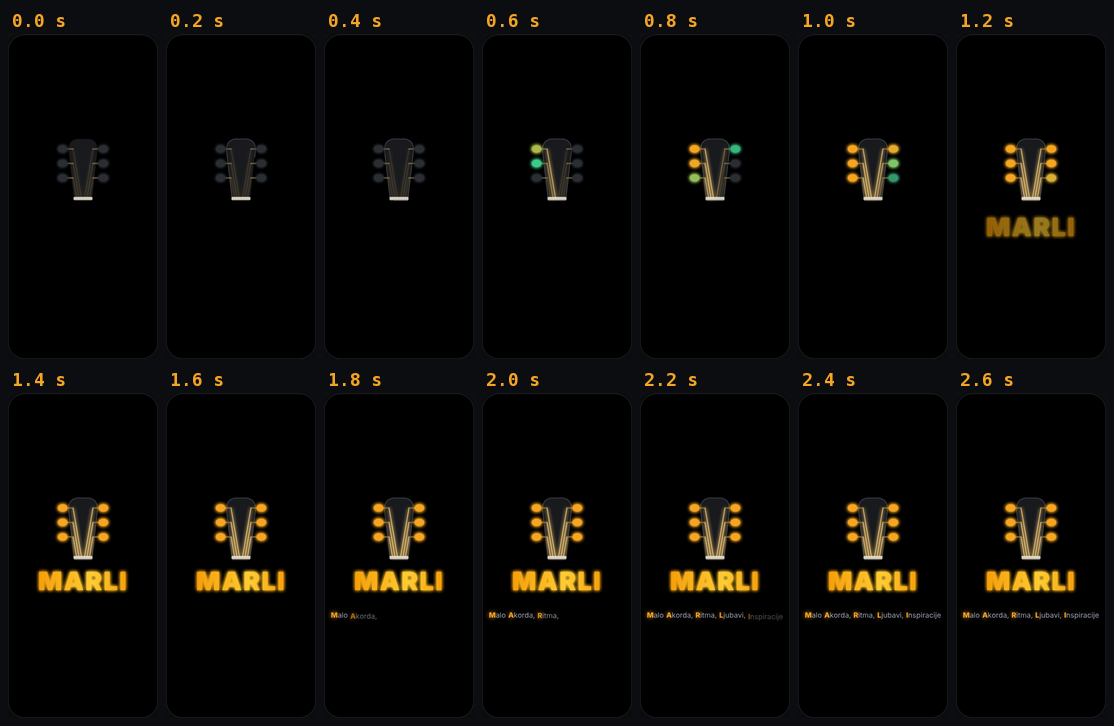
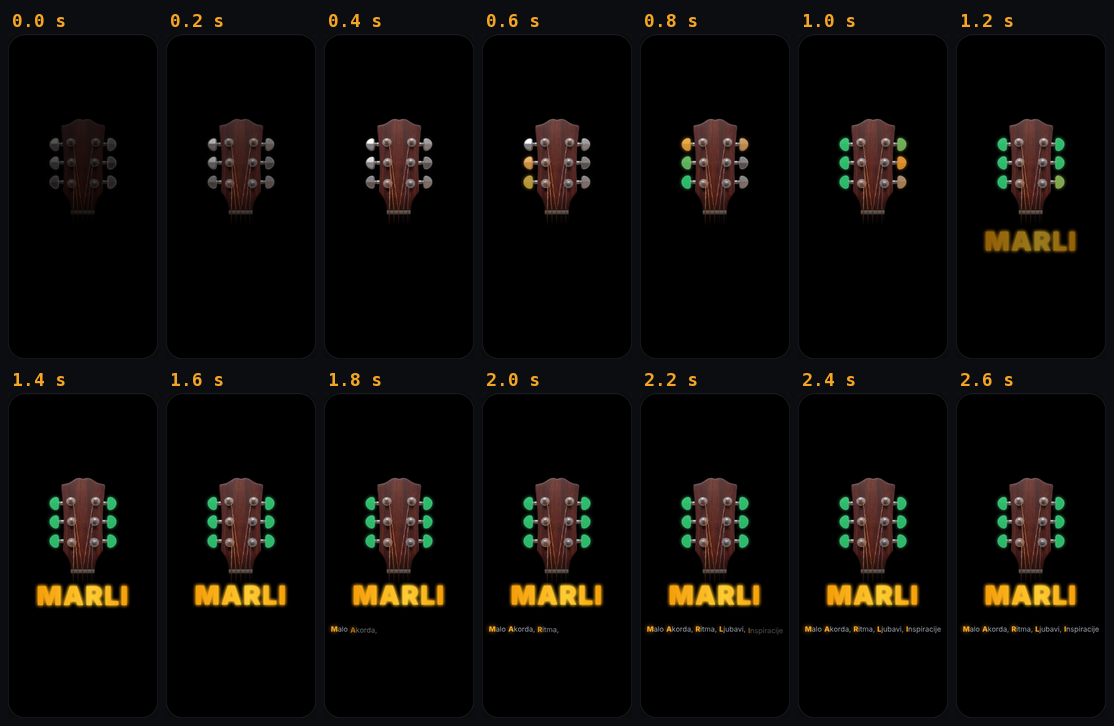
MARLI, faza 1: glava gitare iz tunera — ikonica B (silueta), B2 (fotografija), animacije 4 (fotografija) i 4b (silueta)
Claude-Session: https://claude.ai/code/session_01NDUSKUN97fWP9dPBbYtahr

diff --git a/docs/marli/index.html b/docs/marli/index.html
@@ -107,17 +107,21 @@
   @keyframes pop { 0% { opacity: 0; transform: translateY(26px) scale(.6); } 60% { opacity: 1; } to { opacity: 1; transform: none; } }
   @keyframes fadeIn { to { opacity: 1; } }
 
-  /* animacija 4: čivije (ikonica B) */
-  .a4 .hs { stroke-dasharray: 1; stroke-dashoffset: 1; }
-  .play.a4 .hs { animation: draw .45s ease-out forwards; }
-  .a4 .peg { fill: #2a2d33; }
-  .play.a4 .peg { animation: pegOn .32s ease-out forwards; }
-  @keyframes pegOn { 0% { fill: #2a2d33; } 35% { fill: #3dd68c; } to { fill: #f5a524; } }
-  .a4 .str { opacity: .15; }
-  .play.a4 .str { animation: strOn .3s ease-out forwards; }
-  @keyframes strOn { to { opacity: 1; } }
-  .a4 .nm { opacity: 0; transform: translateY(18px); }
-  .play.a4 .nm { animation: rise .55s cubic-bezier(.2, .9, .25, 1.1) 1.15s forwards; }
+  /* animacija 4 / 4b: glava gitare iz tunera — ključevi kao u tuneru (narandžasto dok se štimuje → zeleno) */
+  .a4 .hsimg, .a4b .hsimg { opacity: 0; }
+  .play.a4 .hsimg { animation: fadeIn .4s ease-out forwards; }
+  .a4b .hsil { stroke-dasharray: 1; stroke-dashoffset: 1; fill-opacity: 0; }
+  .play.a4b .hsil { animation: silDraw .5s ease-out forwards, silFill .35s ease-out .4s forwards; }
+  .a4b .hstr { opacity: 0; }
+  .play.a4b .hstr { animation: fadeIn .35s ease-out .4s forwards; }
+  @keyframes silDraw { to { stroke-dashoffset: 0; } }
+  @keyframes silFill { to { fill-opacity: 1; } }
+  .a4 .kn, .a4b .kn { fill: rgba(255, 255, 255, 0); stroke: rgba(255, 255, 255, .5); stroke-width: 3; stroke-linejoin: round; }
+  .a4b .kn { stroke: rgba(245, 165, 36, .5); }
+  .play.a4 .kn, .play.a4b .kn { animation: knTune .38s ease-out forwards; }
+  @keyframes knTune { 0% { fill: rgba(255,255,255,0); } 40% { fill: rgba(245, 150, 30, .6); stroke: #f5a524; stroke-width: 5; } 100% { fill: rgba(40, 190, 105, .82); stroke: #6ff0aa; stroke-width: 4; } }
+  .a4 .nm, .a4b .nm { opacity: 0; transform: translateY(18px); }
+  .play.a4 .nm, .play.a4b .nm { animation: rise .55s cubic-bezier(.2, .9, .25, 1.1) 1.15s forwards; }
 
   /* animacija 5: ritam */
   .a5 .bar { transform-box: fill-box; transform-origin: 50% 100%; transform: scaleY(.15); }
@@ -204,12 +208,21 @@
       <p class="muted small scrub-hint">Prevuci klizač: kadar po kadar.</p>
     </div>
     <div class="card anim-card">
-      <h3><span class="tag">4</span> Čivije (uz ikonicu B)</h3>
-      <p class="muted small">Glava gitare iz ikonice B: čivije se jedna po jedna „uštimuju“ (kratko zeleno, pa zlatno), žice zasijaju, a ispod izraste MARLI — kao sama ikonica. Zatim reč po reč.</p>
+      <h3><span class="tag">4</span> Čivije — fotografija iz tunera</h3>
+      <p class="muted small">Ista glava gitare kao u tuneru: ključevi se jedan po jedan „uštimuju“ tačno kao u tuneru (narandžasto, pa zeleno), a ispod izraste MARLI. Zatim reč po reč.</p>
       <div class="phone a4" id="ph4"></div>
       <div class="timeline"><b></b></div>
       <div class="row"><button class="btn primary" data-replay="4">↻ Pusti ponovo</button><button class="btn" data-slow="4">🐢 Usporeno 4×</button></div>
       <div class="scrub"><input type="range" min="0" max="2600" step="20" value="0" data-scrub="4" aria-label="Kadar po kadar"><output data-t="4">0,00 s</output></div>
+      <p class="muted small scrub-hint">Prevuci klizač: kadar po kadar.</p>
+    </div>
+    <div class="card anim-card">
+      <h3><span class="tag">4b</span> Čivije — silueta iz tunera</h3>
+      <p class="muted small">Obris iste glave gitare iz tunera se iscrta zlatnom linijom (kao ikonica B), ključevi se uštimuju jedan po jedan, a ispod izraste MARLI. Zatim reč po reč.</p>
+      <div class="phone a4b" id="ph4b"></div>
+      <div class="timeline"><b></b></div>
+      <div class="row"><button class="btn primary" data-replay="4b">↻ Pusti ponovo</button><button class="btn" data-slow="4b">🐢 Usporeno 4×</button></div>
+      <div class="scrub"><input type="range" min="0" max="2600" step="20" value="0" data-scrub="4b" aria-label="Kadar po kadar"><output data-t="4b">0,00 s</output></div>
       <p class="muted small scrub-hint">Prevuci klizač: kadar po kadar.</p>
     </div>
     <div class="card anim-card">
@@ -261,7 +274,7 @@
 // ------------------------------------------------------------------------------------------------
 const GOLD = '#f5a524', CORE = '#ffd27a', GREEN = '#3dd68c';
 let uid = 0;
-const glowDefs = (id, blur = 9) => `<filter id="${id}" filterUnits="userSpaceOnUse" x="-200" y="-200" width="1000" height="1000"><feGaussianBlur stdDeviation="${blur}" result="b"/><feMerge><feMergeNode in="b"/><feMergeNode in="b"/><feMergeNode in="SourceGraphic"/></feMerge></filter>`;
+const glowDefs = (id, blur = 9) => `<filter id="${id}" filterUnits="userSpaceOnUse" x="-3000" y="-3000" width="9000" height="9000"><feGaussianBlur stdDeviation="${blur}" result="b"/><feMerge><feMergeNode in="b"/><feMergeNode in="b"/><feMergeNode in="SourceGraphic"/></feMerge></filter>`;
 
 // „MARLI“ jednim potezom (monoline), slova visine 100, sa razmakom; ukupno 340 × 100
 const LETTERS = [
@@ -287,6 +300,12 @@ function wavePath(x0, x1, y, amp, waves = 2, phase = 0, step = 4) {
 // ------------------------------------------------------------------------------------------------
 // Ikonice (512 × 512, bez zaobljenja — zaobljenje/krug radi sistem)
 // ------------------------------------------------------------------------------------------------
+// Glava gitare iz tunera: fotografija assets/headstock.webp (926 × 1205), obris (silueta) i tačni obrisi šest ključeva (src/headstockKnobs.js)
+const HS = { W: 926, H: 1205, img: '../../assets/headstock.webp', sil: '402,18 386,24 374,30 364,36 354,42 346,48 336,54 324,60 316,66 302,72 286,78 256,84 228,90 224,96 224,102 222,108 222,114 222,120 222,126 224,132 224,138 224,144 224,150 226,156 226,162 226,168 228,174 228,180 228,186 230,192 230,198 232,204 232,210 232,216 232,222 234,228 148,234 136,240 126,246 120,252 114,258 110,264 106,270 104,276 102,282 100,288 100,294 100,300 100,306 102,312 102,318 106,324 108,330 112,336 116,342 122,348 128,354 136,360 150,366 246,372 246,378 246,384 246,390 248,396 246,402 248,408 248,414 248,420 248,426 248,432 146,438 134,444 124,450 118,456 112,462 108,468 106,474 102,480 100,486 100,492 100,498 100,504 100,510 100,516 102,522 104,528 108,534 110,540 116,546 122,552 128,558 138,564 152,570 250,576 250,582 250,588 250,594 250,600 250,606 250,612 250,618 250,624 250,630 250,636 250,642 142,648 136,654 124,660 116,666 114,672 110,678 106,684 104,690 102,696 100,702 96,708 98,714 98,720 100,726 102,732 102,738 106,744 108,750 112,756 116,762 122,768 132,774 142,780 244,786 244,792 244,798 244,804 244,810 244,816 246,822 248,828 250,834 256,840 260,846 264,852 270,858 274,864 278,870 282,876 286,882 290,888 292,894 296,900 298,906 302,912 304,918 308,924 310,930 312,936 314,942 314,948 316,954 318,960 320,966 322,972 322,978 324,984 326,990 326,996 326,1002 328,1008 328,1014 328,1020 328,1026 328,1032 328,1038 328,1044 328,1050 328,1056 328,1062 330,1068 332,1074 350,1080 348,1086 342,1092 334,1098 334,1104 334,1110 330,1116 330,1122 330,1128 330,1134 330,1140 330,1146 330,1152 330,1158 330,1164 330,1170 332,1176 332,1182 332,1188 328,1194 328,1200 592,1200 592,1194 592,1188 590,1182 590,1176 590,1170 590,1164 590,1158 590,1152 590,1146 590,1140 590,1134 590,1128 590,1122 590,1116 590,1110 590,1104 590,1098 590,1092 588,1086 588,1080 588,1074 588,1068 590,1062 590,1056 590,1050 590,1044 590,1038 590,1032 590,1026 592,1020 592,1014 594,1008 594,1002 596,996 596,990 598,984 598,978 600,972 602,966 602,960 604,954 606,948 608,942 610,936 612,930 616,924 618,918 620,912 624,906 626,900 630,894 634,888 638,882 642,876 646,870 650,864 654,858 658,852 664,846 670,840 672,834 676,828 678,822 680,816 680,810 680,804 680,798 680,792 680,786 784,780 794,774 802,768 808,762 812,756 816,750 820,744 822,738 824,732 826,726 826,720 826,714 826,708 826,702 824,696 822,690 820,684 816,678 812,672 806,666 798,660 790,654 774,648 676,642 676,636 676,630 676,624 676,618 676,612 676,606 676,600 676,594 676,588 676,582 676,576 772,570 788,564 798,558 804,552 810,546 814,540 818,534 820,528 822,522 824,516 826,510 826,504 826,498 826,492 824,486 822,480 820,474 818,468 814,462 808,456 802,450 792,444 780,438 678,432 678,426 678,420 680,414 680,408 680,402 680,396 680,390 680,384 682,378 682,372 776,366 788,360 800,354 806,348 810,342 814,336 816,330 820,324 822,318 824,312 824,306 826,300 826,294 824,288 824,282 822,276 820,270 816,264 812,258 806,252 800,246 790,240 776,234 694,228 694,222 696,216 696,210 696,204 698,198 698,192 698,186 700,180 700,174 700,168 702,162 702,156 702,150 702,144 702,138 704,132 704,126 704,120 704,114 704,108 704,102 704,96 700,90 678,84 648,78 628,72 616,66 604,60 594,54 588,48 576,42 568,36 558,30 546,24 530,18', knobs: [{"id": 0, "cx": 149.3, "cy": 715.2, "pts": "189.9,714.9 188.3,718.8 186.5,722.6 188.3,727.2 189.9,732.3 191.7,737.9 191.5,743.6 191.4,750.1 191.4,757.8 190.3,765.7 187.7,773.1 183.0,778.4 177.1,782.5 170.4,784.6 163.3,785.3 156.2,784.7 149.4,783.1 142.9,781.1 136.8,778.2 131.2,775.1 125.9,771.4 121.2,767.8 116.9,763.8 112.8,759.6 109.5,755.1 106.4,750.4 104.0,745.4 101.8,740.6 100.1,735.5 98.7,730.5 97.8,725.4 97.3,720.2 97.4,715.2 97.3,710.0 97.8,704.8 98.3,699.6 99.8,694.7 101.5,689.6 104.0,684.8 106.6,680.1 109.7,675.5 113.1,670.9 116.9,666.5 121.1,662.4 125.9,658.7 131.1,655.0 136.8,652.0 142.9,649.4 149.4,647.3 156.2,645.8 163.3,645.0 170.4,645.6 177.2,647.6 183.3,651.3 187.9,656.8 190.4,664.4 191.4,672.4 191.4,680.1 191.5,686.6 191.7,692.3 191.7,697.5 191.8,702.2 191.8,706.6 191.7,711.0"}, {"id": 1, "cx": 149.7, "cy": 502.7, "pts": "191.6,502.7 191.8,506.9 191.5,511.0 191.5,515.5 191.4,520.2 191.7,525.4 191.6,530.9 191.6,537.4 191.4,544.9 190.4,552.7 187.9,560.2 183.3,566.0 177.6,570.0 170.8,572.0 163.7,572.5 156.7,571.9 149.9,570.2 143.4,568.0 137.5,565.0 132.0,561.9 126.9,558.4 122.1,554.7 117.9,550.6 114.0,546.5 110.6,542.0 107.7,537.4 105.2,532.6 102.7,527.9 100.8,523.1 99.4,518.0 98.2,513.0 97.5,507.9 97.1,502.7 97.1,497.5 97.4,492.4 98.5,487.2 99.9,482.0 102.0,477.2 104.1,472.1 106.9,467.5 109.9,462.8 113.6,458.6 117.6,454.5 121.9,450.4 126.6,446.7 131.9,443.4 137.5,440.7 143.5,437.9 149.9,435.8 156.6,434.2 163.6,433.6 170.7,433.9 177.4,436.0 183.3,439.7 187.9,445.2 190.5,452.6 191.4,460.6 191.6,468.0 191.6,474.5 191.7,480.1 191.8,485.3 191.9,489.8 191.8,494.3 191.8,498.6"}, {"id": 2, "cx": 149.9, "cy": 299.2, "pts": "191.5,299.2 191.4,303.3 190.2,307.2 188.7,310.9 188.8,315.6 189.9,321.0 191.5,327.3 191.4,333.5 191.2,341.0 190.2,348.8 187.8,356.2 183.2,361.6 177.4,365.5 170.7,367.5 163.8,368.6 156.9,368.1 150.1,366.8 143.6,364.5 137.7,361.6 132.1,358.2 127.0,354.8 122.2,351.3 118.0,347.2 114.3,342.8 111.2,338.0 108.2,333.5 105.7,328.7 103.6,324.0 101.9,319.1 100.7,314.1 99.3,309.3 98.7,304.3 98.2,299.2 98.3,294.1 98.6,289.0 99.4,283.8 100.7,278.7 102.5,273.8 104.8,269.0 107.4,264.3 110.5,259.7 113.9,255.2 118.0,251.2 122.3,247.5 127.1,243.9 132.2,240.5 137.8,237.3 143.7,234.5 150.0,232.4 156.8,231.1 163.6,230.8 170.7,231.1 177.2,233.4 183.2,236.8 187.7,242.3 190.3,249.4 191.2,257.4 191.4,264.9 191.5,271.1 191.6,276.8 191.6,281.7 191.6,286.4 191.6,290.9 191.8,295.1"}, {"id": 3, "cx": 777.1, "cy": 299.4, "pts": "827.4,299.3 827.0,304.3 826.5,309.2 825.4,314.0 823.8,318.7 821.6,323.2 819.6,327.9 817.5,332.7 815.1,337.5 812.0,342.1 808.4,346.4 804.3,350.5 799.8,354.5 794.8,358.2 789.2,361.1 783.3,364.0 776.9,366.3 770.2,368.0 763.2,368.6 756.2,368.0 749.3,366.3 743.3,362.7 738.9,357.0 736.4,349.5 735.7,341.3 735.6,333.8 736.9,326.7 738.1,320.5 739.3,315.1 739.2,310.9 738.9,307.0 738.6,303.2 738.2,299.4 737.9,295.5 737.9,291.6 737.9,287.5 738.3,283.2 738.3,278.5 738.4,273.3 738.5,267.4 737.6,259.2 737.4,250.3 738.9,241.8 743.4,236.2 749.4,232.8 756.3,231.0 763.3,230.6 770.2,231.2 777.0,232.6 783.3,234.6 789.3,237.3 794.8,240.5 799.8,244.3 804.5,247.9 808.8,251.8 812.8,255.8 816.2,260.3 819.0,264.9 821.5,269.7 823.7,274.5 825.4,279.3 826.4,284.4 827.1,289.4 827.3,294.4"}, {"id": 4, "cx": 776.8, "cy": 502.6, "pts": "827.7,502.6 827.4,507.7 826.6,512.6 825.7,517.5 824.3,522.4 822.7,527.2 820.5,532.0 818.1,536.7 815.4,541.4 811.9,545.6 808.2,549.8 804.0,553.7 799.4,557.7 794.5,561.4 789.0,564.8 783.0,567.4 776.7,569.5 770.0,570.8 762.9,571.8 755.6,571.9 748.7,570.4 742.6,567.0 738.4,560.7 736.3,552.7 735.6,544.4 735.6,536.8 735.4,530.6 735.4,524.9 735.2,520.0 736.2,515.1 737.3,510.7 738.3,506.5 738.4,502.6 738.3,498.9 738.4,495.0 738.3,490.9 738.5,486.7 738.5,482.0 737.5,476.0 736.6,469.1 735.6,460.9 736.4,452.8 738.8,445.4 743.2,439.6 749.1,435.8 755.9,433.8 762.9,433.6 770.0,434.3 776.7,435.7 783.0,437.7 789.0,440.4 794.6,443.4 799.9,446.8 804.6,450.4 808.8,454.6 812.6,459.0 816.0,463.4 819.1,467.8 821.8,472.6 824.0,477.4 825.6,482.4 826.7,487.5 827.3,492.6 827.8,497.7"}, {"id": 5, "cx": 777, "cy": 715.2, "pts": "828.0,715.2 827.9,720.2 827.4,725.3 826.3,730.2 825.1,735.2 823.3,740.0 821.5,745.1 819.0,749.9 816.3,754.6 812.8,759.0 809.1,763.5 804.9,767.6 800.2,771.3 795.0,774.8 789.3,777.9 783.4,780.7 776.9,782.9 770.1,784.5 762.9,785.4 755.8,785.1 748.9,783.3 742.7,779.6 738.4,773.5 736.3,765.5 735.7,757.1 735.6,749.6 736.4,742.8 737.3,736.7 738.2,731.4 738.2,727.1 738.2,723.0 737.8,719.0 737.7,715.2 737.4,711.3 737.5,707.3 737.6,703.2 737.9,698.9 738.2,694.3 737.4,688.4 736.5,681.5 735.7,673.4 736.2,664.7 738.4,657.0 742.7,651.1 749.0,647.7 755.9,645.6 762.9,644.8 770.0,645.5 776.9,647.1 783.3,649.6 789.3,652.6 794.9,656.0 800.1,659.5 804.8,663.0 809.0,667.1 812.8,671.5 816.2,676.0 819.5,680.3 822.1,685.0 824.1,690.0 825.5,695.0 826.6,700.1 827.4,705.2 827.9,710.2"}] };
+// žice od klinova do sedla, kao na fotografiji (koordinate fotografije)
+const HS_POST = [[336, 720], [340, 486], [330, 266], [600, 260], [592, 486], [584, 720]], HS_NUT = [362, 405, 448, 491, 534, 577];
+const HS_STRINGS = HS_POST.map(([x, y], i) => `<line x1="${x}" y1="${y}" x2="${HS_NUT[i]}" y2="1030"/>`).join('');
+const HS_POSTS = HS_POST.map(([x, y]) => `<circle cx="${x}" cy="${y}" r="26"/>`).join('');
 const ICONS = {
   A: {
     name: 'Žica ispisuje ime',
@@ -308,24 +327,42 @@ const ICONS = {
     },
   },
   B: {
-    name: 'Glava gitare',
-    note: 'Glava gitare sa šest sjajnih čivija i žicama, ime krupno ispod.',
+    name: 'Glava gitare (silueta iz tunera)',
+    note: 'Obris glave gitare iz tunera, ključevi sijaju zlatno kao naštimovana žica, ime krupno ispod.',
     svg(id) {
-      const g = 'g' + id;
-      const ys = [104, 168, 232], posts = [...ys.map((y) => [212, y]), ...ys.map((y) => [300, y])];
-      const nutX = [228, 239, 250, 262, 273, 284];
-      const order = [2, 1, 0, 3, 4, 5]; // niže čivije = spoljne žice
-      const strings = order.map((pi, i) => `<line x1="${posts[pi][0]}" y1="${posts[pi][1]}" x2="${nutX[i]}" y2="318"/>`).join('');
+      const g = 'g' + id, k = 0.3, tx = 256 - HS.W * k / 2, ty = 12;
+      const knobs = HS.knobs.map((kn) => `<polygon points="${kn.pts}"/>`).join('');
       return `<svg viewBox="0 0 512 512" xmlns="http://www.w3.org/2000/svg"><defs>${glowDefs(g, 9)}
-        <linearGradient id="lg${id}" gradientUnits="userSpaceOnUse" x1="0" y1="0" x2="512" y2="0"><stop offset="0" stop-color="#f59e0b"/><stop offset=".6" stop-color="#ffcc33"/><stop offset="1" stop-color="#f59e0b"/></linearGradient></defs>
+        <linearGradient id="lg${id}" gradientUnits="userSpaceOnUse" x1="0" y1="0" x2="512" y2="0"><stop offset="0" stop-color="#f59e0b"/><stop offset=".6" stop-color="#ffcc33"/><stop offset="1" stop-color="#f59e0b"/></linearGradient>
+        <linearGradient id="wd${id}" x1="0" y1="0" x2="0" y2="1"><stop offset="0" stop-color="#2a1a12"/><stop offset="1" stop-color="#120b07"/></linearGradient>
+        <clipPath id="cl${id}"><rect x="0" y="0" width="${HS.W}" height="1030"/></clipPath></defs>
         <rect width="512" height="512" fill="#000"/>
-        <path d="M206 322 L180 96 Q178 58 214 52 L298 52 Q334 58 332 96 L306 322 Z" fill="#181a1e" stroke="#2f333b" stroke-width="4"/>
-        <g stroke="#6b5a3a" stroke-width="7" stroke-linecap="round">${ys.map((y) => `<line x1="150" y1="${y}" x2="212" y2="${y}"/><line x1="300" y1="${y}" x2="362" y2="${y}"/>`).join('')}</g>
-        <g fill="#2a2d33">${posts.map(([x, y]) => `<circle cx="${x}" cy="${y}" r="7"/>`).join('')}</g>
-        <g stroke="${CORE}" stroke-width="3" filter="url(#${g})">${strings}</g>
-        <rect x="206" y="314" width="100" height="12" rx="4" fill="#e9e1cf" opacity=".9"/>
-        <g fill="${GOLD}" filter="url(#${g})">${ys.map((y) => `<ellipse cx="136" cy="${y}" rx="22" ry="17"/><ellipse cx="376" cy="${y}" rx="22" ry="17"/>`).join('')}</g>
-        <text x="256" y="440" text-anchor="middle" font-family="system-ui, -apple-system, 'Segoe UI', Roboto, Arial, sans-serif" font-weight="900" font-size="112" letter-spacing="6" fill="url(#lg${id})" filter="url(#${g})">MARLI</text>
+        <g transform="translate(${tx.toFixed(1)} ${ty}) scale(${k})" clip-path="url(#cl${id})">
+          <polygon points="${HS.sil}" fill="url(#wd${id})" stroke="${GOLD}" stroke-width="10" stroke-linejoin="round" filter="url(#${g})"/>
+          <g fill="${GOLD}" stroke="${CORE}" stroke-width="6" filter="url(#${g})">${knobs}</g>
+          <g stroke="${CORE}" stroke-width="6" opacity=".9" filter="url(#${g})">${HS_STRINGS}</g><g fill="#3a3e46" stroke="#8a8f99" stroke-width="5">${HS_POSTS}</g>
+          <rect x="334" y="1026" width="262" height="30" rx="8" fill="#e9e1cf"/>
+        </g>
+        <text x="256" y="452" text-anchor="middle" font-family="system-ui, -apple-system, 'Segoe UI', Roboto, Arial, sans-serif" font-weight="900" font-size="104" letter-spacing="6" fill="url(#lg${id})" filter="url(#${g})">MARLI</text>
+        </svg>`;
+    },
+  },
+  B2: {
+    name: 'Glava gitare (fotografija iz tunera)',
+    note: 'Ista fotografija kao u tuneru, ključevi zlatno osvetljeni, ime ispod. Za poređenje sa B.',
+    svg(id) {
+      const g = 'g' + id, k = 0.3, tx = 256 - HS.W * k / 2, ty = 12;
+      const knobs = HS.knobs.map((kn) => `<polygon points="${kn.pts}"/>`).join('');
+      return `<svg viewBox="0 0 512 512" xmlns="http://www.w3.org/2000/svg" xmlns:xlink="http://www.w3.org/1999/xlink"><defs>${glowDefs(g, 9)}
+        <linearGradient id="lg${id}" gradientUnits="userSpaceOnUse" x1="0" y1="0" x2="512" y2="0"><stop offset="0" stop-color="#f59e0b"/><stop offset=".6" stop-color="#ffcc33"/><stop offset="1" stop-color="#f59e0b"/></linearGradient>
+        <linearGradient id="fade${id}" x1="0" y1="0" x2="0" y2="1"><stop offset=".72" stop-color="#fff"/><stop offset="1" stop-color="#000"/></linearGradient>
+        <mask id="mk${id}"><rect width="${HS.W}" height="${HS.H}" fill="url(#fade${id})"/></mask></defs>
+        <rect width="512" height="512" fill="#000"/>
+        <g transform="translate(${tx.toFixed(1)} ${ty}) scale(${k})">
+          <image href="${HS.img}" xlink:href="${HS.img}" width="${HS.W}" height="${HS.H}" mask="url(#mk${id})"/>
+          <g fill="rgba(245,150,30,.6)" stroke="${GOLD}" stroke-width="7" filter="url(#${g})">${knobs}</g>
+        </g>
+        <text x="256" y="452" text-anchor="middle" font-family="system-ui, -apple-system, 'Segoe UI', Roboto, Arial, sans-serif" font-weight="900" font-size="104" letter-spacing="6" fill="url(#lg${id})" filter="url(#${g})">MARLI</text>
         </svg>`;
     },
   },
@@ -478,25 +515,32 @@ function anim3() {
     ${words(1.55)}</div>`;
 }
 
-function anim4() {
-  const id = ++uid, g = 'g' + id;
-  const ys = [40, 72, 104], posts = [...ys.map((y) => [138, y]), ...ys.map((y) => [182, y])];
-  const order = [2, 1, 0, 3, 4, 5], nutX = [146, 151.5, 157, 163, 168.5, 174];
-  const pegT = (k) => (0.4 + k * 0.11).toFixed(2);
-  const pegs = [0, 1, 2, 3, 4, 5].map((k) => { const side = k < 3 ? 0 : 1, y = ys[k % 3], x = side ? 205 : 115; return `<ellipse class="peg" cx="${x}" cy="${y}" rx="11" ry="8.5" style="animation-delay:${pegT(k)}s"/>`; }).join('');
-  const strs = order.map((pi, i) => `<line class="str" x1="${posts[pi][0]}" y1="${posts[pi][1]}" x2="${nutX[i]}" y2="150" style="animation-delay:${pegT(pi)}s"/>`).join('');
+// 4: fotografija iz tunera — ključevi se „uštimuju“ jedan po jedan tačno kao u tuneru (narandžasto → zeleno)
+function headstockAnim(photo) {
+  const id = ++uid, g = 'g' + id, k = 0.2, tx = 160 - HS.W * k / 2, ty = 0;
+  const order = [0, 1, 2, 3, 4, 5];
+  const knobs = HS.knobs.map((kn) => `<polygon class="kn" points="${kn.pts}" style="animation-delay:${(0.42 + order.indexOf(kn.id) * 0.11).toFixed(2)}s"/>`).join('');
+  const art = photo
+    ? `<image class="hsimg" href="${HS.img}" xlink:href="${HS.img}" width="${HS.W}" height="${HS.H}" mask="url(#mk${id})"/>`
+    : `<polygon class="hsil" pathLength="1" points="${HS.sil}" fill="url(#wd${id})" stroke="${GOLD}" stroke-width="10" stroke-linejoin="round" filter="url(#${g})"/><g class="hstr" stroke="${CORE}" stroke-width="5" filter="url(#${g})">${HS_STRINGS}</g><g class="hstr" fill="#3a3e46" stroke="#8a8f99" stroke-width="5">${HS_POSTS}</g><rect class="hstr" x="334" y="1026" width="262" height="30" rx="8" fill="#e9e1cf"/>`;
   return `<div class="stage">
-    <svg viewBox="0 0 320 250" width="100%" style="max-width:290px;overflow:visible" aria-label="MARLI">
-      <defs>${glowDefs(g, 4)}<linearGradient id="lg${id}" gradientUnits="userSpaceOnUse" x1="60" y1="0" x2="260" y2="0"><stop offset="0" stop-color="#f59e0b"/><stop offset=".6" stop-color="#ffcc33"/><stop offset="1" stop-color="#f59e0b"/></linearGradient></defs>
-      <path class="hs" pathLength="1" d="M141 154 L128 44 Q127 22 146 18 L174 18 Q193 22 192 44 L179 154 Z" fill="#181a1e" stroke="#3a3e46" stroke-width="2"/>
-      <g stroke="#6b5a3a" stroke-width="3.5" stroke-linecap="round">${ys.map((y) => `<line x1="122" y1="${y}" x2="138" y2="${y}"/><line x1="182" y1="${y}" x2="198" y2="${y}"/>`).join('')}</g>
-      <g stroke="${CORE}" stroke-width="1.6" filter="url(#${g})">${strs}</g>
-      <rect x="139" y="146" width="42" height="7" rx="2" fill="#e9e1cf" opacity=".9"/>
-      <g filter="url(#${g})">${pegs}</g>
-      <text class="nm" x="160" y="222" text-anchor="middle" font-family="system-ui, -apple-system, 'Segoe UI', Roboto, Arial, sans-serif" font-weight="900" font-size="56" letter-spacing="3" fill="url(#lg${id})" filter="url(#${g})">MARLI</text>
+    <svg viewBox="0 0 320 310" width="100%" style="max-width:290px;overflow:visible" aria-label="MARLI" xmlns:xlink="http://www.w3.org/1999/xlink">
+      <defs>${glowDefs(g, 4)}<linearGradient id="lg${id}" gradientUnits="userSpaceOnUse" x1="60" y1="0" x2="260" y2="0"><stop offset="0" stop-color="#f59e0b"/><stop offset=".6" stop-color="#ffcc33"/><stop offset="1" stop-color="#f59e0b"/></linearGradient>
+        <filter id="kg${id}" filterUnits="userSpaceOnUse" x="-200" y="-200" width="1400" height="1600"><feGaussianBlur stdDeviation="22" result="b"/><feMerge><feMergeNode in="b"/><feMergeNode in="SourceGraphic"/></feMerge></filter>
+        <linearGradient id="wd${id}" x1="0" y1="0" x2="0" y2="1"><stop offset="0" stop-color="#2a1a12"/><stop offset="1" stop-color="#120b07"/></linearGradient>
+        <linearGradient id="fade${id}" x1="0" y1="0" x2="0" y2="1"><stop offset=".7" stop-color="#fff"/><stop offset="1" stop-color="#000"/></linearGradient>
+        <mask id="mk${id}"><rect width="${HS.W}" height="${HS.H}" fill="url(#fade${id})"/></mask>
+        <clipPath id="cl${id}"><rect x="0" y="0" width="${HS.W}" height="1050"/></clipPath></defs>
+      <g transform="translate(${tx.toFixed(1)} ${ty}) scale(${k})" clip-path="${photo ? '' : `url(#cl${id})`}">
+        ${art}
+        <g class="kns" filter="url(#kg${id})">${knobs}</g>
+      </g>
+      <text class="nm" x="160" y="284" text-anchor="middle" font-family="system-ui, -apple-system, 'Segoe UI', Roboto, Arial, sans-serif" font-weight="900" font-size="58" letter-spacing="3" fill="url(#lg${id})" filter="url(#${g})">MARLI</text>
     </svg>
     ${words(1.6)}</div>`;
 }
+const anim4 = () => headstockAnim(true);
+const anim4b = () => headstockAnim(false);
 
 function anim5() {
   const id = ++uid, g = 'g' + id;
@@ -516,7 +560,7 @@ function anim5() {
     </svg>
     ${words(1.5)}</div>`;
 }
-const ANIMS = { 1: () => anim1(), 2: () => anim2(), 3: anim3, 4: anim4, 5: anim5 };
+const ANIMS = { 1: () => anim1(), 2: () => anim2(), 3: anim3, 4: anim4, '4b': anim4b, 5: anim5 };
 // Rečenica ispod imena: uvek jedan red — meri se i smanjuje dok ne stane u širinu ekrana (radi u svakom pregledaču)
 function fitWords(root) {
   root.querySelectorAll('.words').forEach((w) => {
@@ -538,7 +582,7 @@ function play(n) {
   ph.classList.add('play');
   ph.querySelector('svg')?.setCurrentTime?.(0);
 }
-document.querySelectorAll('[data-replay]').forEach((b) => b.addEventListener('click', () => { stopDrive(+b.dataset.replay); play(+b.dataset.replay); }));
+document.querySelectorAll('[data-replay]').forEach((b) => b.addEventListener('click', () => { stopDrive(b.dataset.replay); play(b.dataset.replay); }));
 
 // Kadar po kadar / usporeno: sve animacije (CSS + SVG) se zaustave i postave na isto vreme t
 const END = 2.6, drives = {};
@@ -553,9 +597,9 @@ function seek(n, t, fresh = false) {
 }
 window.__seek = seek; // za snimanje kadrova
 function stopDrive(n) { if (drives[n]) { cancelAnimationFrame(drives[n].raf); drives[n] = null; } document.querySelector(`[data-slow="${n}"]`).classList.remove('on'); }
-document.querySelectorAll('[data-scrub]').forEach((r) => r.addEventListener('input', () => { const n = +r.dataset.scrub; stopDrive(n); seek(n, +r.value / 1000); }));
+document.querySelectorAll('[data-scrub]').forEach((r) => r.addEventListener('input', () => { const n = r.dataset.scrub; stopDrive(n); seek(n, +r.value / 1000); }));
 document.querySelectorAll('[data-slow]').forEach((b) => b.addEventListener('click', () => {
-  const n = +b.dataset.slow;
+  const n = b.dataset.slow;
   if (drives[n]) return stopDrive(n);
   b.classList.add('on');
   seek(n, 0, true);
@@ -564,8 +608,8 @@ document.querySelectorAll('[data-slow]').forEach((b) => b.addEventListener('clic
   d.raf = requestAnimationFrame(step);
 }));
 // pusti kad se vidi na ekranu
-const io = new IntersectionObserver((es) => es.forEach((e) => { if (e.isIntersecting && !e.target.dataset.played) { e.target.dataset.played = '1'; play(+e.target.id.slice(2)); } }), { threshold: .5 });
-[1, 2, 3, 4, 5].forEach((n) => io.observe(document.getElementById('ph' + n)));
+const io = new IntersectionObserver((es) => es.forEach((e) => { if (e.isIntersecting && !e.target.dataset.played) { e.target.dataset.played = '1'; play(e.target.id.slice(2)); } }), { threshold: .5 });
+['1', '2', '3', '4', '4b', '5'].forEach((n) => io.observe(document.getElementById('ph' + n)));
 document.querySelectorAll('.timeline').forEach((t) => { /* traka vremena prati .play */ });
 
 // O aplikaciji: ikonica po izboru; dodir na naslov/ikonicu = animacija 1 (primer)
